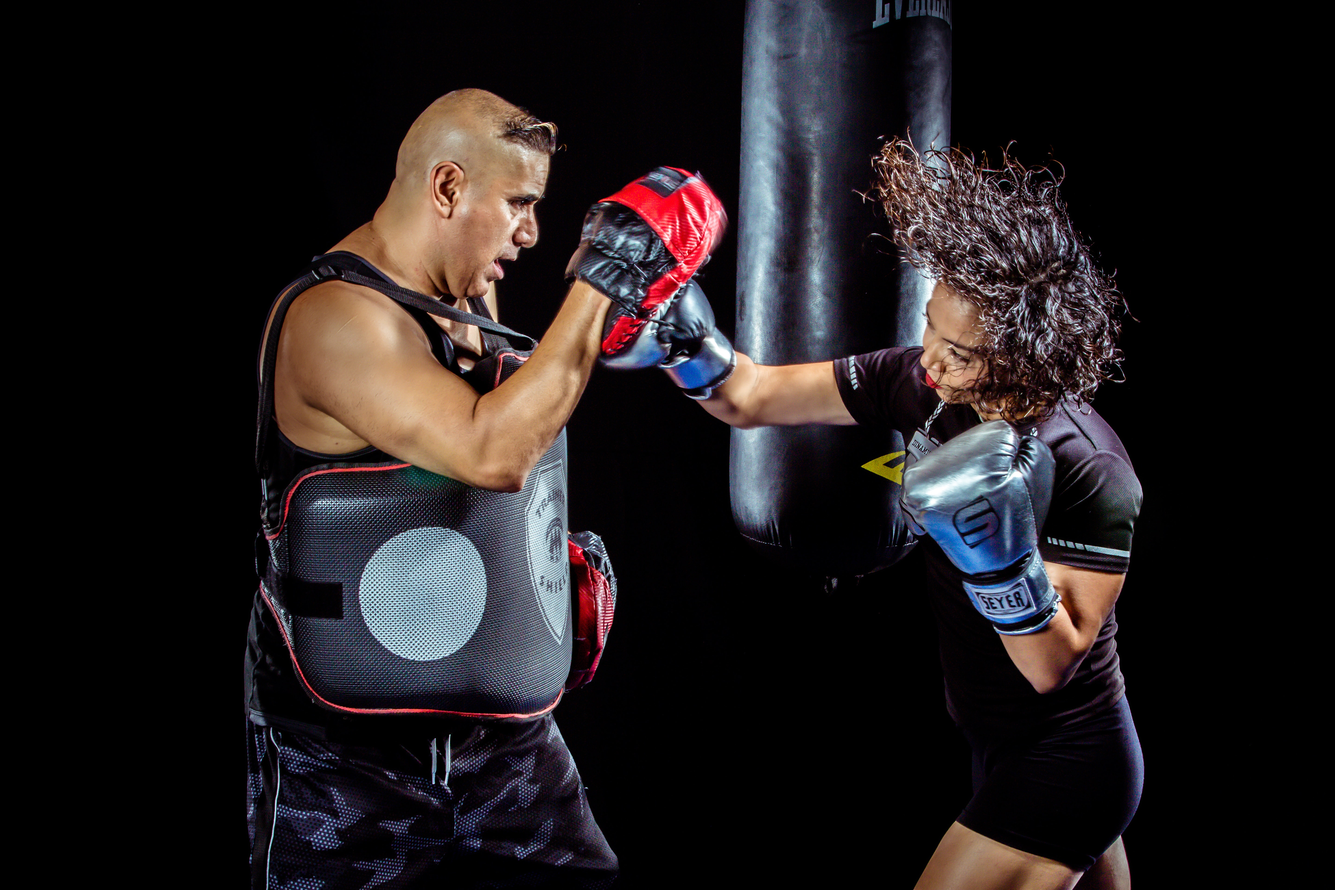
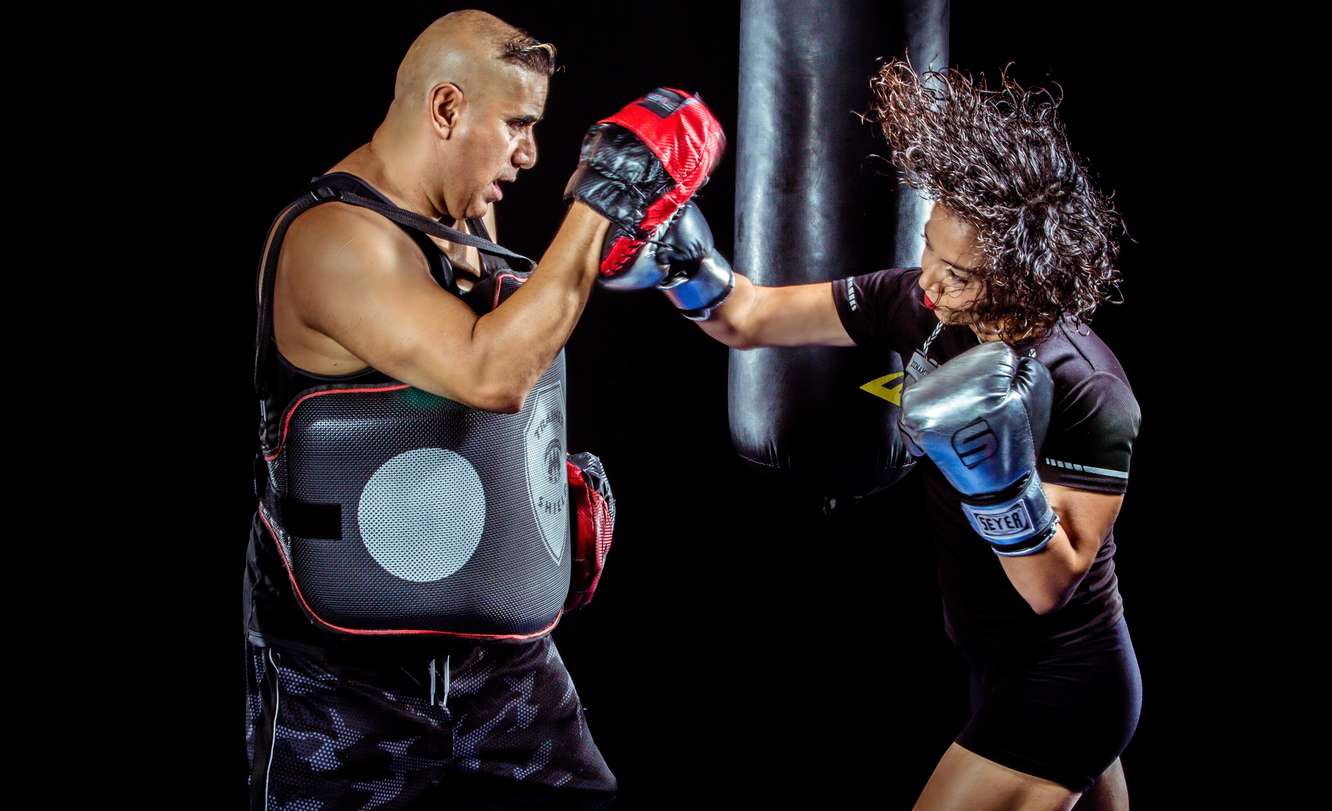
Add stacked imgs for trainers pg

diff --git a/less/main.less b/less/main.less
@@ -80,9 +80,27 @@ main {
     }
     //*******TRAINERS***********
     .trainers-hero-imgs{
+        padding: 10px 0px 10px 0px;
         img{
             max-width: 300px;
         }
+        
+    }
+    .image-stack {
+        display: grid;
+        grid-template-columns: repeat(12, 1fr);
+        position: relative;
+        .image-stack-item-bottom {
+            grid-column-start: 4;
+            grid-column-end: -1;
+            grid-row: 1; // make this image be on the same row
+        }
+        .image-stack-item-top {
+            grid-column: 1 / span 8;
+            grid-row: 1; // must be on the same row as the other image
+            padding-top: 20%; // this pushes the image down, and keeps it proportional as it resizes
+            z-index: 1; // make this image render on top of the bottom
+        }    
     }
 }
 footer {

diff --git a/trainers.html b/trainers.html
@@ -58,9 +58,13 @@
     </header>
     <main>
         <section class="container">
-            <div class="trainers-hero-imgs">
-                <img src="images/bg-image.png" alt="">
-                <img src="images/trainers-hero.jpg" alt="">
+            <div class="trainers-hero-imgs image-stack">
+                <div class="image-stack-item image-stack-item-top">
+                    <img src="images/trainers-hero.jpg" role="presentation">
+                </div>
+                <div class="image-stack-item image-stack-item-bottom">
+                    <img src="images/bg-image.png" alt=" image of female boxer training with their coach">
+                </div>
             </div>
             <div>
                 <h2>OUR TRAINERS</h2>

diff --git a/css/main.css b/css/main.css
@@ -111,8 +111,27 @@ main article {
 main article p {
   margin-top: 10px;
 }
+main .trainers-hero-imgs {
+  padding: 10px 0px 10px 0px;
+}
 main .trainers-hero-imgs img {
   max-width: 300px;
+}
+main .image-stack {
+  display: grid;
+  grid-template-columns: repeat(12, 1fr);
+  position: relative;
+}
+main .image-stack .image-stack-item-bottom {
+  grid-column-start: 4;
+  grid-column-end: -1;
+  grid-row: 1;
+}
+main .image-stack .image-stack-item-top {
+  grid-column: 1 / span 8;
+  grid-row: 1;
+  padding-top: 20%;
+  z-index: 1;
 }
 footer {
   background-color: #f2dbee;
